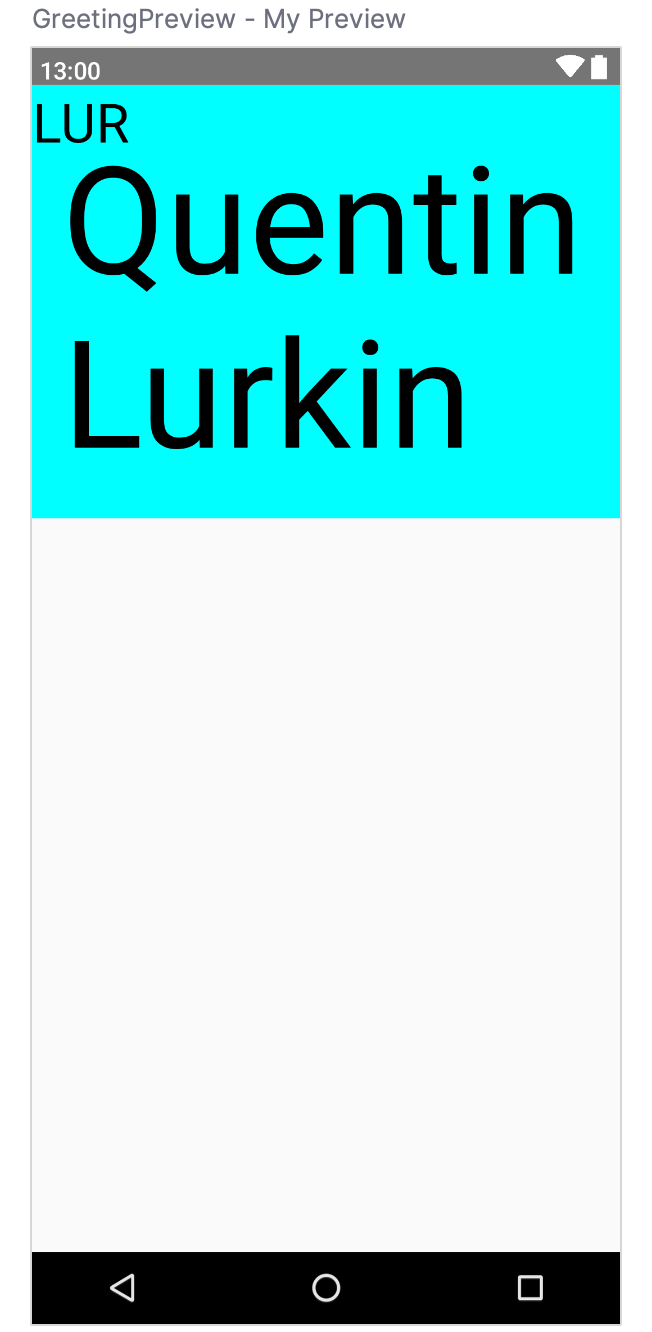
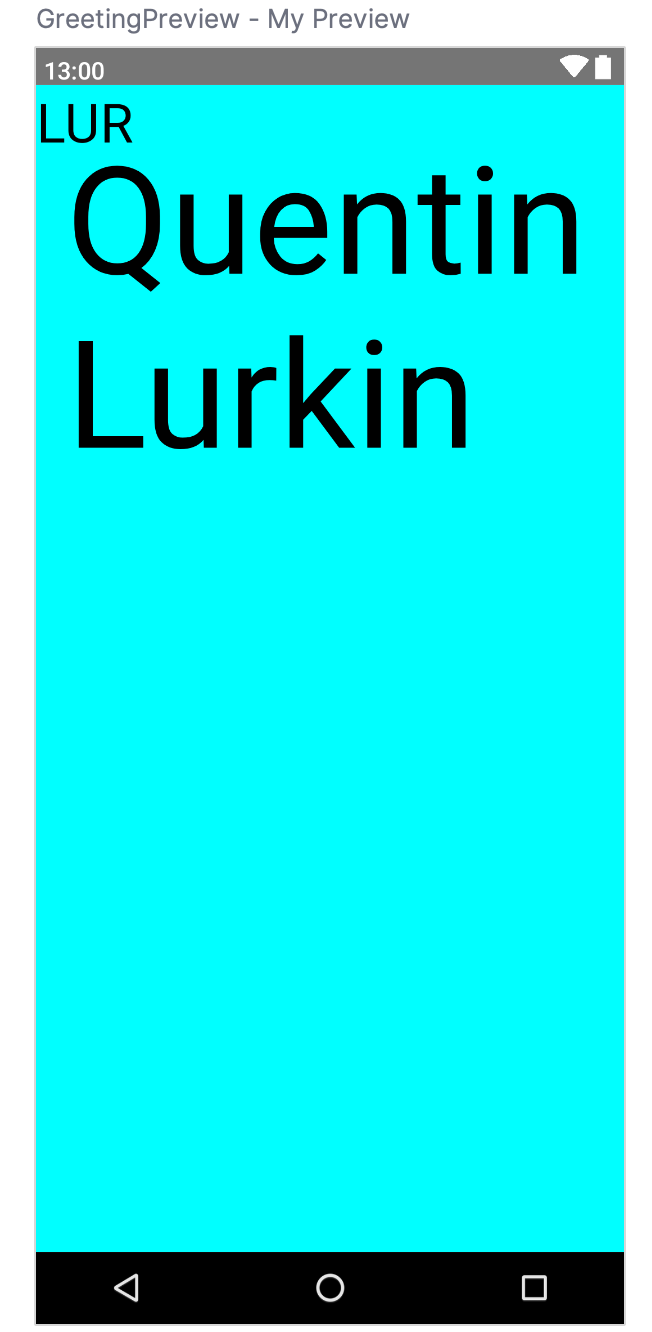
Continue Mobile Lab 1

diff --git a/docs/courses/mobile/lab1/index.html b/docs/courses/mobile/lab1/index.html
@@ -178,13 +178,17 @@ fun GreetingPreview() {
 </li>
 <li><p>Delete <code>Box</code> and type <code>Surface()</code> instead.</p>
 </li>
+<li><p>It&#39;s a best practice to have your Composable accept a <code>Modifier</code> parameter, and pass that <code>modifier</code> to its first child.</p>
+</li>
 <li><p>To the Surface container add a color parameter, set it to <code>Color.Cyan</code>.</p>
 <pre><code class="language-kotlin">@Composable
 fun Greeting(name: String, modifier: Modifier = Modifier) {
-  Surface(color = Color.Cyan) {
+  Surface(
+    color = Color.Cyan,
+    modifier = modifier
+  ) {
     Text(
       text = &quot;Hi, my name is $name!&quot;,
-      modifier = modifier
     )
   }
 }
@@ -197,7 +201,9 @@ fun Greeting(name: String, modifier: Modifier = Modifier) {
 <li><p>In your code, the best practice is to keep your imports listed alphabetically and remove unused imports. To do this press <strong>Help</strong> on the top toolbar, type in <strong>optimize imports</strong>, and click on <strong>Optimize Imports</strong>.</p>
 </li>
 <li><p>Notice the updated preview.</p>
-</li>
+ <figure>
+ <img src="./greeting_background.png">
+ </figure></li>
 </ol>
 <h2>Use Modifiers</h2>
 <p>Now your text has a background color, next you will add some space (padding) around the text.</p>
@@ -207,7 +213,10 @@ fun Greeting(name: String, modifier: Modifier = Modifier) {
 <li><p>Add a padding to the <code>modifier</code> with a size of <code>24.dp</code>.</p>
 <pre><code class="language-kotlin">@Composable
 fun Greeting(name: String, modifier: Modifier = Modifier) {
-  Surface(color = Color.Cyan) {
+  Surface(
+    color = Color.Cyan,
+    modifier = modifier
+  ) {
     Text(
       text = &quot;Hi, my name is $name!&quot;,
       modifier = modifier.padding(24.dp)
@@ -222,6 +231,10 @@ import androidx.compose.foundation.layout.padding
 </code></pre>
 <p> Make sure to use <strong>Optimize Imports</strong> to alphabetize the new imports.</p>
 </li>
+<li><p>Notice the updated preview.</p>
+ <figure>
+ <img src="./greeting_padding.png" alt="">
+ </figure></li>
 </ol>
 <h2>Run your App</h2>
 <p>You can:</p>
@@ -229,6 +242,35 @@ import androidx.compose.foundation.layout.padding
 <li><a href="https://developer.android.com/codelabs/basic-android-kotlin-compose-emulator?continue=https%3A%2F%2Fdeveloper.android.com%2Fcourses%2Fpathways%2Fandroid-basics-compose-unit-1-pathway-2%23codelab-https%3A%2F%2Fdeveloper.android.com%2Fcodelabs%2Fbasic-android-kotlin-compose-emulator">Run your App on the emulator</a></li>
 <li><a href="https://developer.android.com/codelabs/basic-android-kotlin-compose-connect-device?continue=https%3A%2F%2Fdeveloper.android.com%2Fcourses%2Fpathways%2Fandroid-basics-compose-unit-1-pathway-2%23codelab-https%3A%2F%2Fdeveloper.android.com%2Fcodelabs%2Fbasic-android-kotlin-compose-connect-device">Run your App on an actual Android device</a></li>
 </ul>
+<p>The App don&#39;t look the same than the preview. It&#39;s because we have an extra <code>Surface</code> with parameters in the <code>onCreate()</code> method. We can remove this Surface and use its parameters in our <code>Greeting()</code> Composable.</p>
+<pre><code class="language-kotlin">class MainActivity : ComponentActivity() {
+  override fun onCreate(savedInstanceState: Bundle?) {
+    super.onCreate(savedInstanceState)
+    setContent {
+      Lab1Theme {
+        Greeting(&quot;Android&quot;)
+      }
+    }
+  }
+}
+
+@Composable
+fun Greeting(name: String, modifier: Modifier = Modifier) {
+  Surface(
+    color = Color.Cyan,
+    modifier = modifier.fillMaxSize()
+  ) {
+    Text(
+      text = &quot;Hi, my name is $name!&quot;,
+      modifier = modifier.padding(24.dp)
+    )
+  }
+}
+</code></pre>
+<figure>
+  <img src="./greetings_fill.png">
+</figure>
+
 <h2>Change font size</h2>
 <p>You added text to your user interface. In this section, you learn how to change the size, text color, and other attributes that affect the appearance of the text element. You can also experiment with different font sizes and colors.</p>
 <h3>Scalable pixels</h3>
@@ -239,7 +281,10 @@ import androidx.compose.foundation.layout.padding
 <li><p>Pass the <code>Text()</code> function a <code>fontSize</code> argument as a second named argument and set it to a value of <code>100.sp</code>.</p>
 <pre><code class="language-kotlin">@Composable
 fun Greeting(name: String, modifier: Modifier = Modifier) {
-  Surface(color = Color.Cyan) {
+  Surface(
+    color = Color.Cyan,
+    modifier = modifier.fillMaxSize()
+  ) {
     Text(
       text = &quot;Hi, my name is $name!&quot;,
       fontSize = 100.sp,
@@ -284,7 +329,10 @@ fun Greeting(name: String, modifier: Modifier = Modifier) {
 <li><p>Add a <code>fontSize</code> named argument set to a value of <code>36.sp</code>.</p>
 <pre><code class="language-kotlin">@Composable
 fun StudentCard(name: String, matricule: String, modifier: Modifier = Modifier) {
-  Surface(color = Color.Cyan) {
+  Surface(
+    color = Color.Cyan,
+    modifier = modifier
+  ) {
     Text(
       text = name,
       fontSize = 100.sp,
@@ -319,12 +367,72 @@ fun GreetingPreview() {
  </figure></li>
 </ol>
 <p>A composable function might describe several UI elements. However, if you don&#39;t provide guidance on how to arrange them, Compose might arrange the elements in a way that you don&#39;t like. For example, the previous code generates two text elements that overlap each other because there&#39;s no guidance on how to arrange the two composables.</p>
-<h2>Arrange the text elements in a row and column</h2>
-<h3>UI Hierarchy</h3>
+<h2>UI Hierarchy</h2>
 <p>The UI hierarchy is based on containment, meaning one component can contain one or more components, and the terms parent and child are sometimes used. The context here is that the parent UI elements contain children UI elements, which in turn can contain children UI elements. In this section, you will learn about <code>Column</code>, <code>Row</code>, and <code>Box</code> composables, which can act as parent UI elements.</p>
 <figure>
   <img src="./column_row.png">
 </figure>
+
+<p><code>Column</code>, <code>Row</code>, and <code>Box</code> are composable functions that take composable content as arguments, so you can place items inside these layout elements. For example, each child element inside a <code>Row</code> composable is placed horizontally next to each other in a row.</p>
+<p>Let&#39;s arrange the text elements in your app in a column to avoid overlap.</p>
+<ol>
+<li><p>In the <code>MainActivity.kt</code> file, scroll to the <code>StudentCard()</code> function.</p>
+</li>
+<li><p>Add the <code>Column</code> composable around the text elements so that it shows a column with two text elements. Select the two <code>Text</code> composables, click on the light bulb. Select <code>Surround with widget</code> &gt; <code>Surround with Column</code>.</p>
+</li>
+<li><p>Android Studio auto imports <code>Column</code> function for you. Scroll to the top and notice the import section. The import <code>androidx.compose.foundation.layout.Column</code> should have been added.</p>
+</li>
+<li><p>Move the padding <code>Modifier</code> at the <code>Column</code> level.</p>
+<pre><code class="language-kotlin">@Composable
+fun StudentCard(name: String, matricule: String, modifier: Modifier = Modifier) {
+  Surface(
+    color = Color.Cyan,
+    modifier = modifier.fillMaxSize()
+  ) {
+    Column(modifier = modifier.padding(20.dp)) {
+      Text(
+        text = name,
+        fontSize = 100.sp,
+        lineHeight = 116.sp
+      )
+      Text(
+        text = matricule,
+        fontSize = 36.sp
+      )
+    }
+  }
+}
+</code></pre>
+<p> The preview looks much better now that there&#39;s no overlap. But we can improve it even more.</p>
+</li>
+<li><p>To align the greeting in the center of the screen add a parameter called <code>verticalArrangement</code> set it to <code>Arrangement.Center</code>.</p>
+<pre><code class="language-kotlin">@Composable
+fun StudentCard(name: String, matricule: String, modifier: Modifier = Modifier) {
+  Surface(
+    color = Color.Cyan,
+    modifier = modifier.fillMaxSize()
+  ) {
+    Column (
+      verticalArrangement = Arrangement.Center,
+      modifier = modifier.padding(20.dp)
+    ) {
+      Text(
+        text = name,
+        fontSize = 100.sp,
+        lineHeight = 116.sp,
+      )
+      Text(
+        text = matricule,
+        fontSize = 36.sp
+      )
+    }
+  }
+}
+</code></pre>
+</li>
+</ol>
+<!-- 1. To further beautify your app, align the greeting text to the center using `textAlign`. -->
+
 
 
 

diff --git a/docs/courses/mobile/lab1/index.md b/docs/courses/mobile/lab1/index.md
@@ -204,15 +204,19 @@ To set a different background color for your introduction, you'll need to surrou
 
 1. Delete `Box` and type `Surface()` instead.
 
+1. It's a best practice to have your Composable accept a `Modifier` parameter, and pass that `modifier` to its first child.
+
 1. To the Surface container add a color parameter, set it to `Color.Cyan`.
 
     ```kotlin
     @Composable
     fun Greeting(name: String, modifier: Modifier = Modifier) {
-      Surface(color = Color.Cyan) {
+      Surface(
+        color = Color.Cyan,
+        modifier = modifier
+      ) {
         Text(
           text = "Hi, my name is $name!",
-          modifier = modifier
         )
       }
     }
@@ -228,6 +232,10 @@ To set a different background color for your introduction, you'll need to surrou
 
 1. Notice the updated preview.
 
+    <figure>
+    <img src="./greeting_background.png">
+    </figure>
+
 ## Use Modifiers
 
 Now your text has a background color, next you will add some space (padding) around the text.
@@ -241,7 +249,10 @@ Every composable should have an optional parameter of the type `Modifier`. This 
     ```kotlin
     @Composable
     fun Greeting(name: String, modifier: Modifier = Modifier) {
-      Surface(color = Color.Cyan) {
+      Surface(
+        color = Color.Cyan,
+        modifier = modifier
+      ) {
         Text(
           text = "Hi, my name is $name!",
           modifier = modifier.padding(24.dp)
@@ -258,12 +269,50 @@ Every composable should have an optional parameter of the type `Modifier`. This 
 
     Make sure to use **Optimize Imports** to alphabetize the new imports.
 
+1. Notice the updated preview.
+
+    <figure>
+    <img src="./greeting_padding.png" alt="">
+    </figure>
+
 ## Run your App
 
 You can:
 
 - [Run your App on the emulator](https://developer.android.com/codelabs/basic-android-kotlin-compose-emulator?continue=https%3A%2F%2Fdeveloper.android.com%2Fcourses%2Fpathways%2Fandroid-basics-compose-unit-1-pathway-2%23codelab-https%3A%2F%2Fdeveloper.android.com%2Fcodelabs%2Fbasic-android-kotlin-compose-emulator)
 - [Run your App on an actual Android device](https://developer.android.com/codelabs/basic-android-kotlin-compose-connect-device?continue=https%3A%2F%2Fdeveloper.android.com%2Fcourses%2Fpathways%2Fandroid-basics-compose-unit-1-pathway-2%23codelab-https%3A%2F%2Fdeveloper.android.com%2Fcodelabs%2Fbasic-android-kotlin-compose-connect-device)
+
+The App don't look the same than the preview. It's because we have an extra `Surface` with parameters in the `onCreate()` method. We can remove this Surface and use its parameters in our `Greeting()` Composable.
+
+```kotlin
+class MainActivity : ComponentActivity() {
+  override fun onCreate(savedInstanceState: Bundle?) {
+    super.onCreate(savedInstanceState)
+    setContent {
+      Lab1Theme {
+        Greeting("Android")
+      }
+    }
+  }
+}
+
+@Composable
+fun Greeting(name: String, modifier: Modifier = Modifier) {
+  Surface(
+    color = Color.Cyan,
+    modifier = modifier.fillMaxSize()
+  ) {
+    Text(
+      text = "Hi, my name is $name!",
+      modifier = modifier.padding(24.dp)
+    )
+  }
+}
+```
+
+<figure>
+  <img src="./greetings_fill.png">
+</figure>
 
 ## Change font size
 
@@ -280,7 +329,10 @@ The [scalable pixels (SP)](https://developer.android.com/reference/kotlin/androi
     ```kotlin
     @Composable
     fun Greeting(name: String, modifier: Modifier = Modifier) {
-      Surface(color = Color.Cyan) {
+      Surface(
+        color = Color.Cyan,
+        modifier = modifier.fillMaxSize()
+      ) {
         Text(
           text = "Hi, my name is $name!",
           fontSize = 100.sp,
@@ -328,10 +380,14 @@ Let's create a Student Card App!
 
 1. Add a `fontSize` named argument set to a value of `36.sp`.
 
+
     ```kotlin
     @Composable
     fun StudentCard(name: String, matricule: String, modifier: Modifier = Modifier) {
-      Surface(color = Color.Cyan) {
+      Surface(
+        color = Color.Cyan,
+        modifier = modifier
+      ) {
         Text(
           text = name,
           fontSize = 100.sp,
@@ -370,14 +426,78 @@ Let's create a Student Card App!
 
 A composable function might describe several UI elements. However, if you don't provide guidance on how to arrange them, Compose might arrange the elements in a way that you don't like. For example, the previous code generates two text elements that overlap each other because there's no guidance on how to arrange the two composables.
 
-## Arrange the text elements in a row and column
-
-### UI Hierarchy
+## UI Hierarchy
 
 The UI hierarchy is based on containment, meaning one component can contain one or more components, and the terms parent and child are sometimes used. The context here is that the parent UI elements contain children UI elements, which in turn can contain children UI elements. In this section, you will learn about `Column`, `Row`, and `Box` composables, which can act as parent UI elements.
 
 <figure>
   <img src="./column_row.png">
 </figure>
+
+`Column`, `Row`, and `Box` are composable functions that take composable content as arguments, so you can place items inside these layout elements. For example, each child element inside a `Row` composable is placed horizontally next to each other in a row.
+
+Let's arrange the text elements in your app in a column to avoid overlap.
+
+1. In the `MainActivity.kt` file, scroll to the `StudentCard()` function.
+
+1. Add the `Column` composable around the text elements so that it shows a column with two text elements. Select the two `Text` composables, click on the light bulb. Select `Surround with widget` > `Surround with Column`.
+
+1. Android Studio auto imports `Column` function for you. Scroll to the top and notice the import section. The import `androidx.compose.foundation.layout.Column` should have been added.
+
+1. Move the padding `Modifier` at the `Column` level.
+
+    ```kotlin
+    @Composable
+    fun StudentCard(name: String, matricule: String, modifier: Modifier = Modifier) {
+      Surface(
+        color = Color.Cyan,
+        modifier = modifier.fillMaxSize()
+      ) {
+        Column(modifier = modifier.padding(20.dp)) {
+          Text(
+            text = name,
+            fontSize = 100.sp,
+            lineHeight = 116.sp
+          )
+          Text(
+            text = matricule,
+            fontSize = 36.sp
+          )
+        }
+      }
+    }
+    ```
+
+    The preview looks much better now that there's no overlap. But we can improve it even more.
+
+1. To align the greeting in the center of the screen add a parameter called `verticalArrangement` set it to `Arrangement.Center`.
+
+    ```kotlin
+    @Composable
+    fun StudentCard(name: String, matricule: String, modifier: Modifier = Modifier) {
+      Surface(
+        color = Color.Cyan,
+        modifier = modifier.fillMaxSize()
+      ) {
+        Column (
+          verticalArrangement = Arrangement.Center,
+          modifier = modifier.padding(20.dp)
+        ) {
+          Text(
+            text = name,
+            fontSize = 100.sp,
+            lineHeight = 116.sp,
+          )
+          Text(
+            text = matricule,
+            fontSize = 36.sp
+          )
+        }
+      }
+    }
+    ```
+
+<!-- 1. To further beautify your app, align the greeting text to the center using `textAlign`. -->
+
 
 
